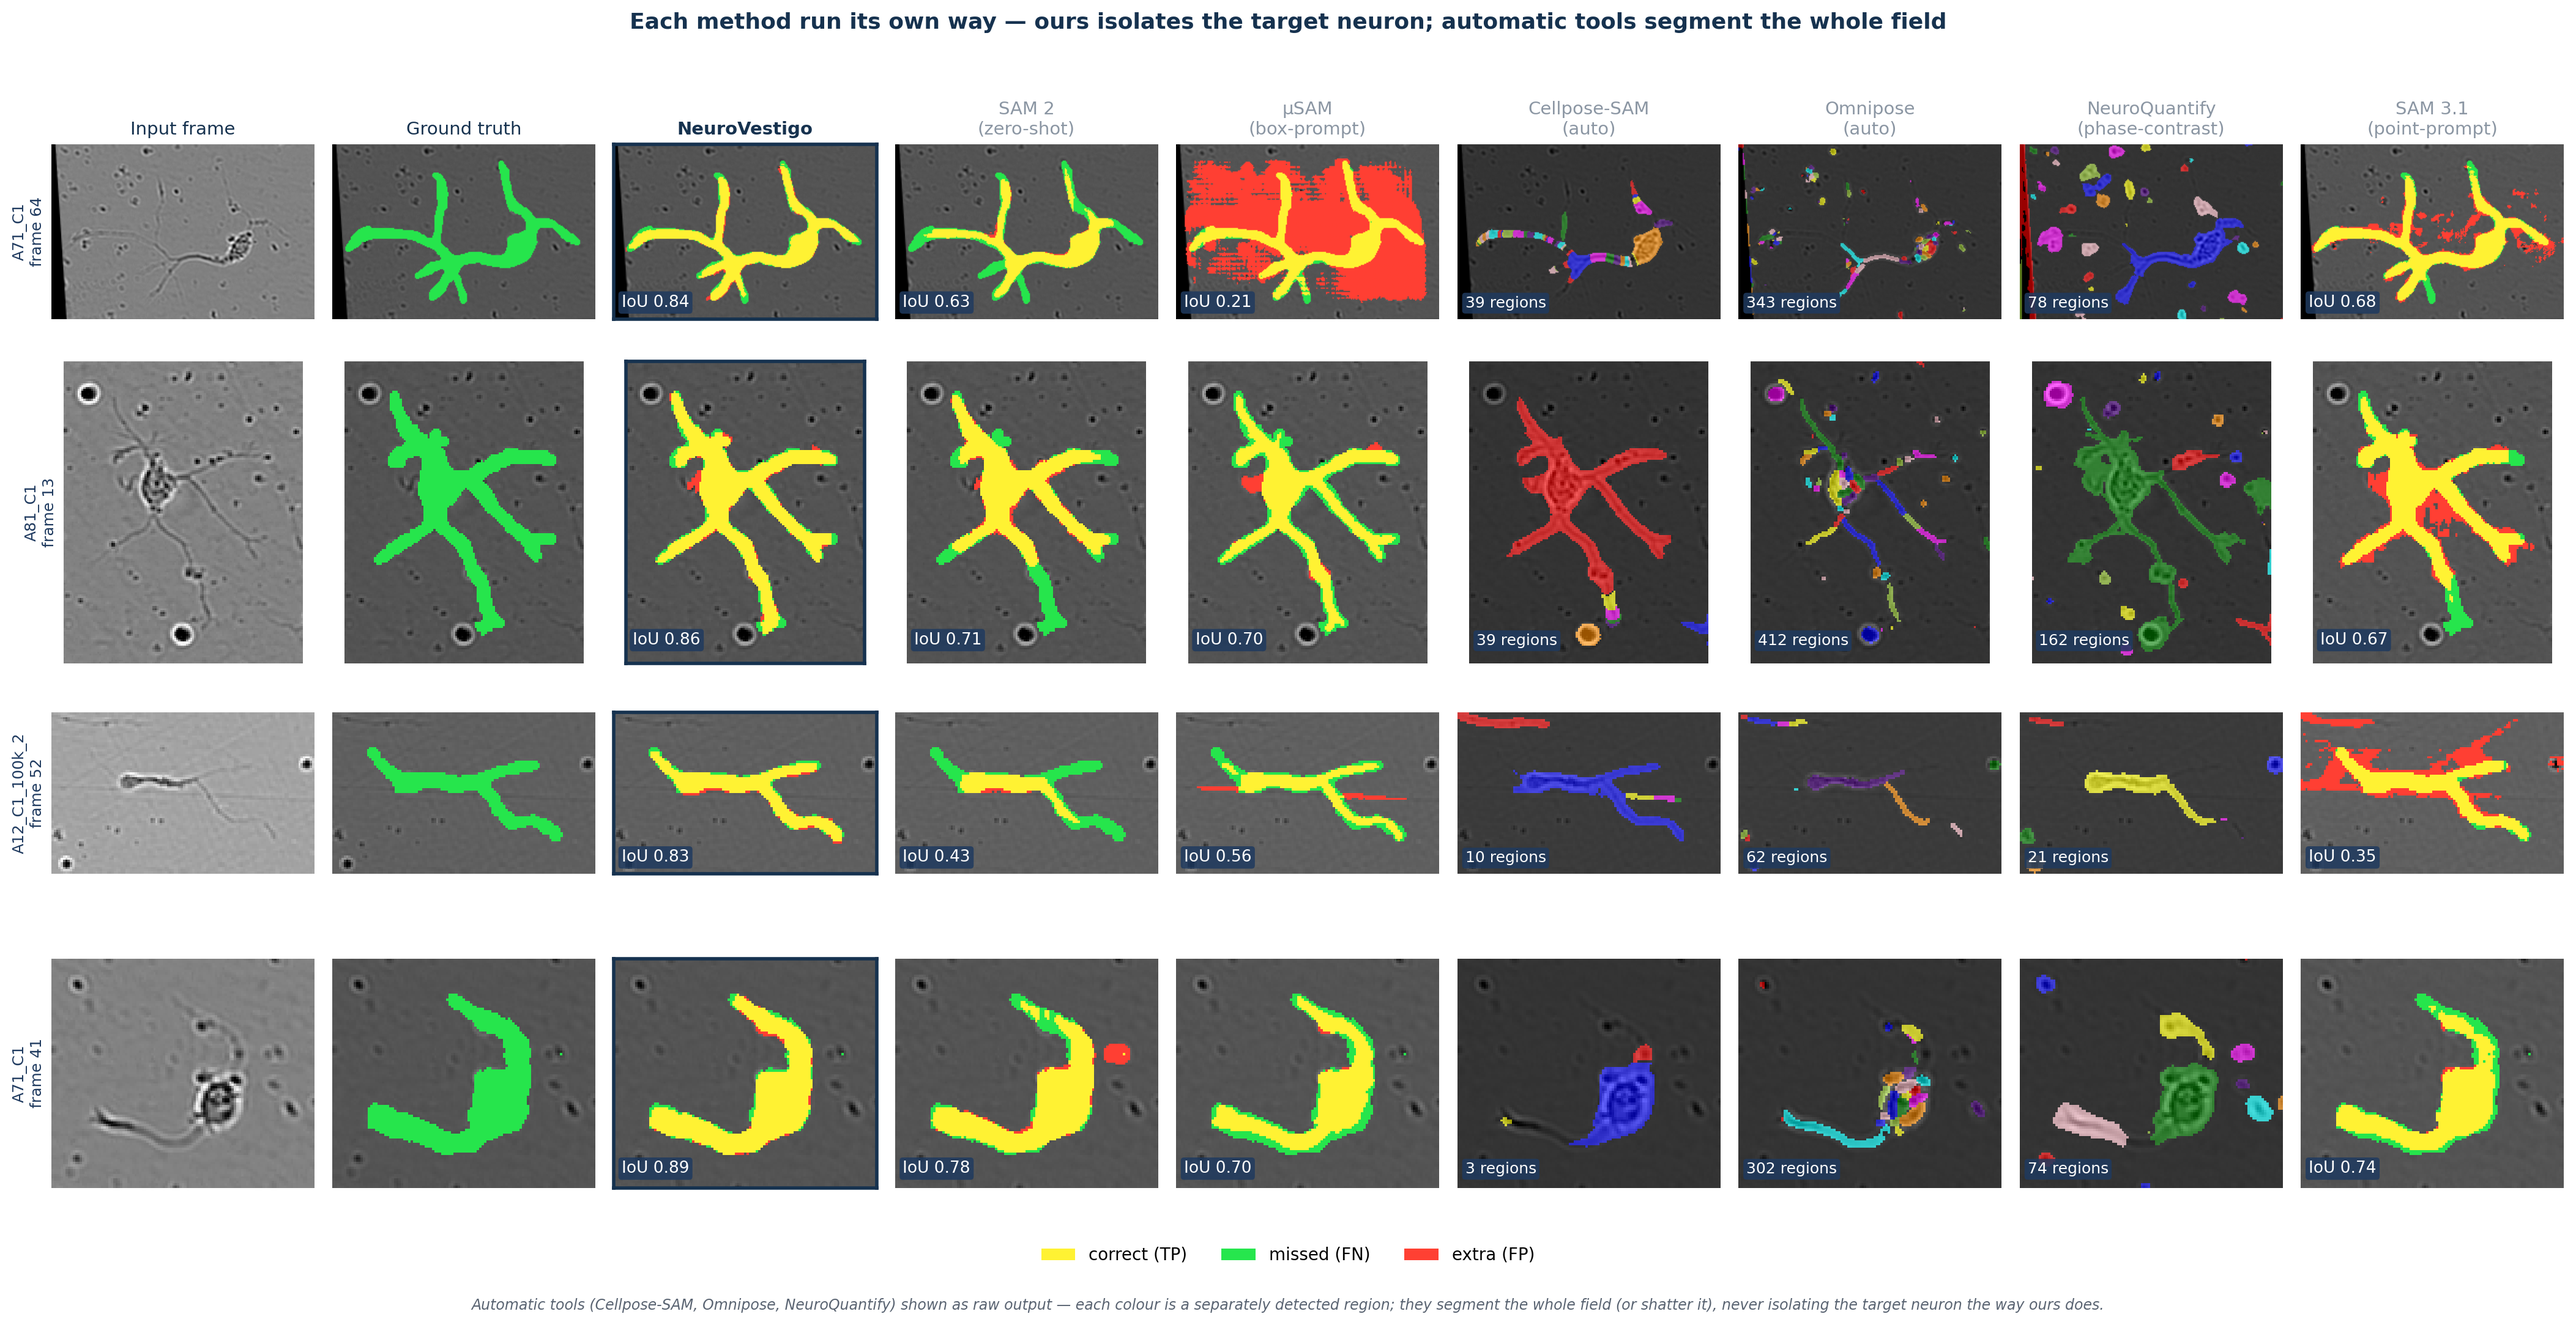
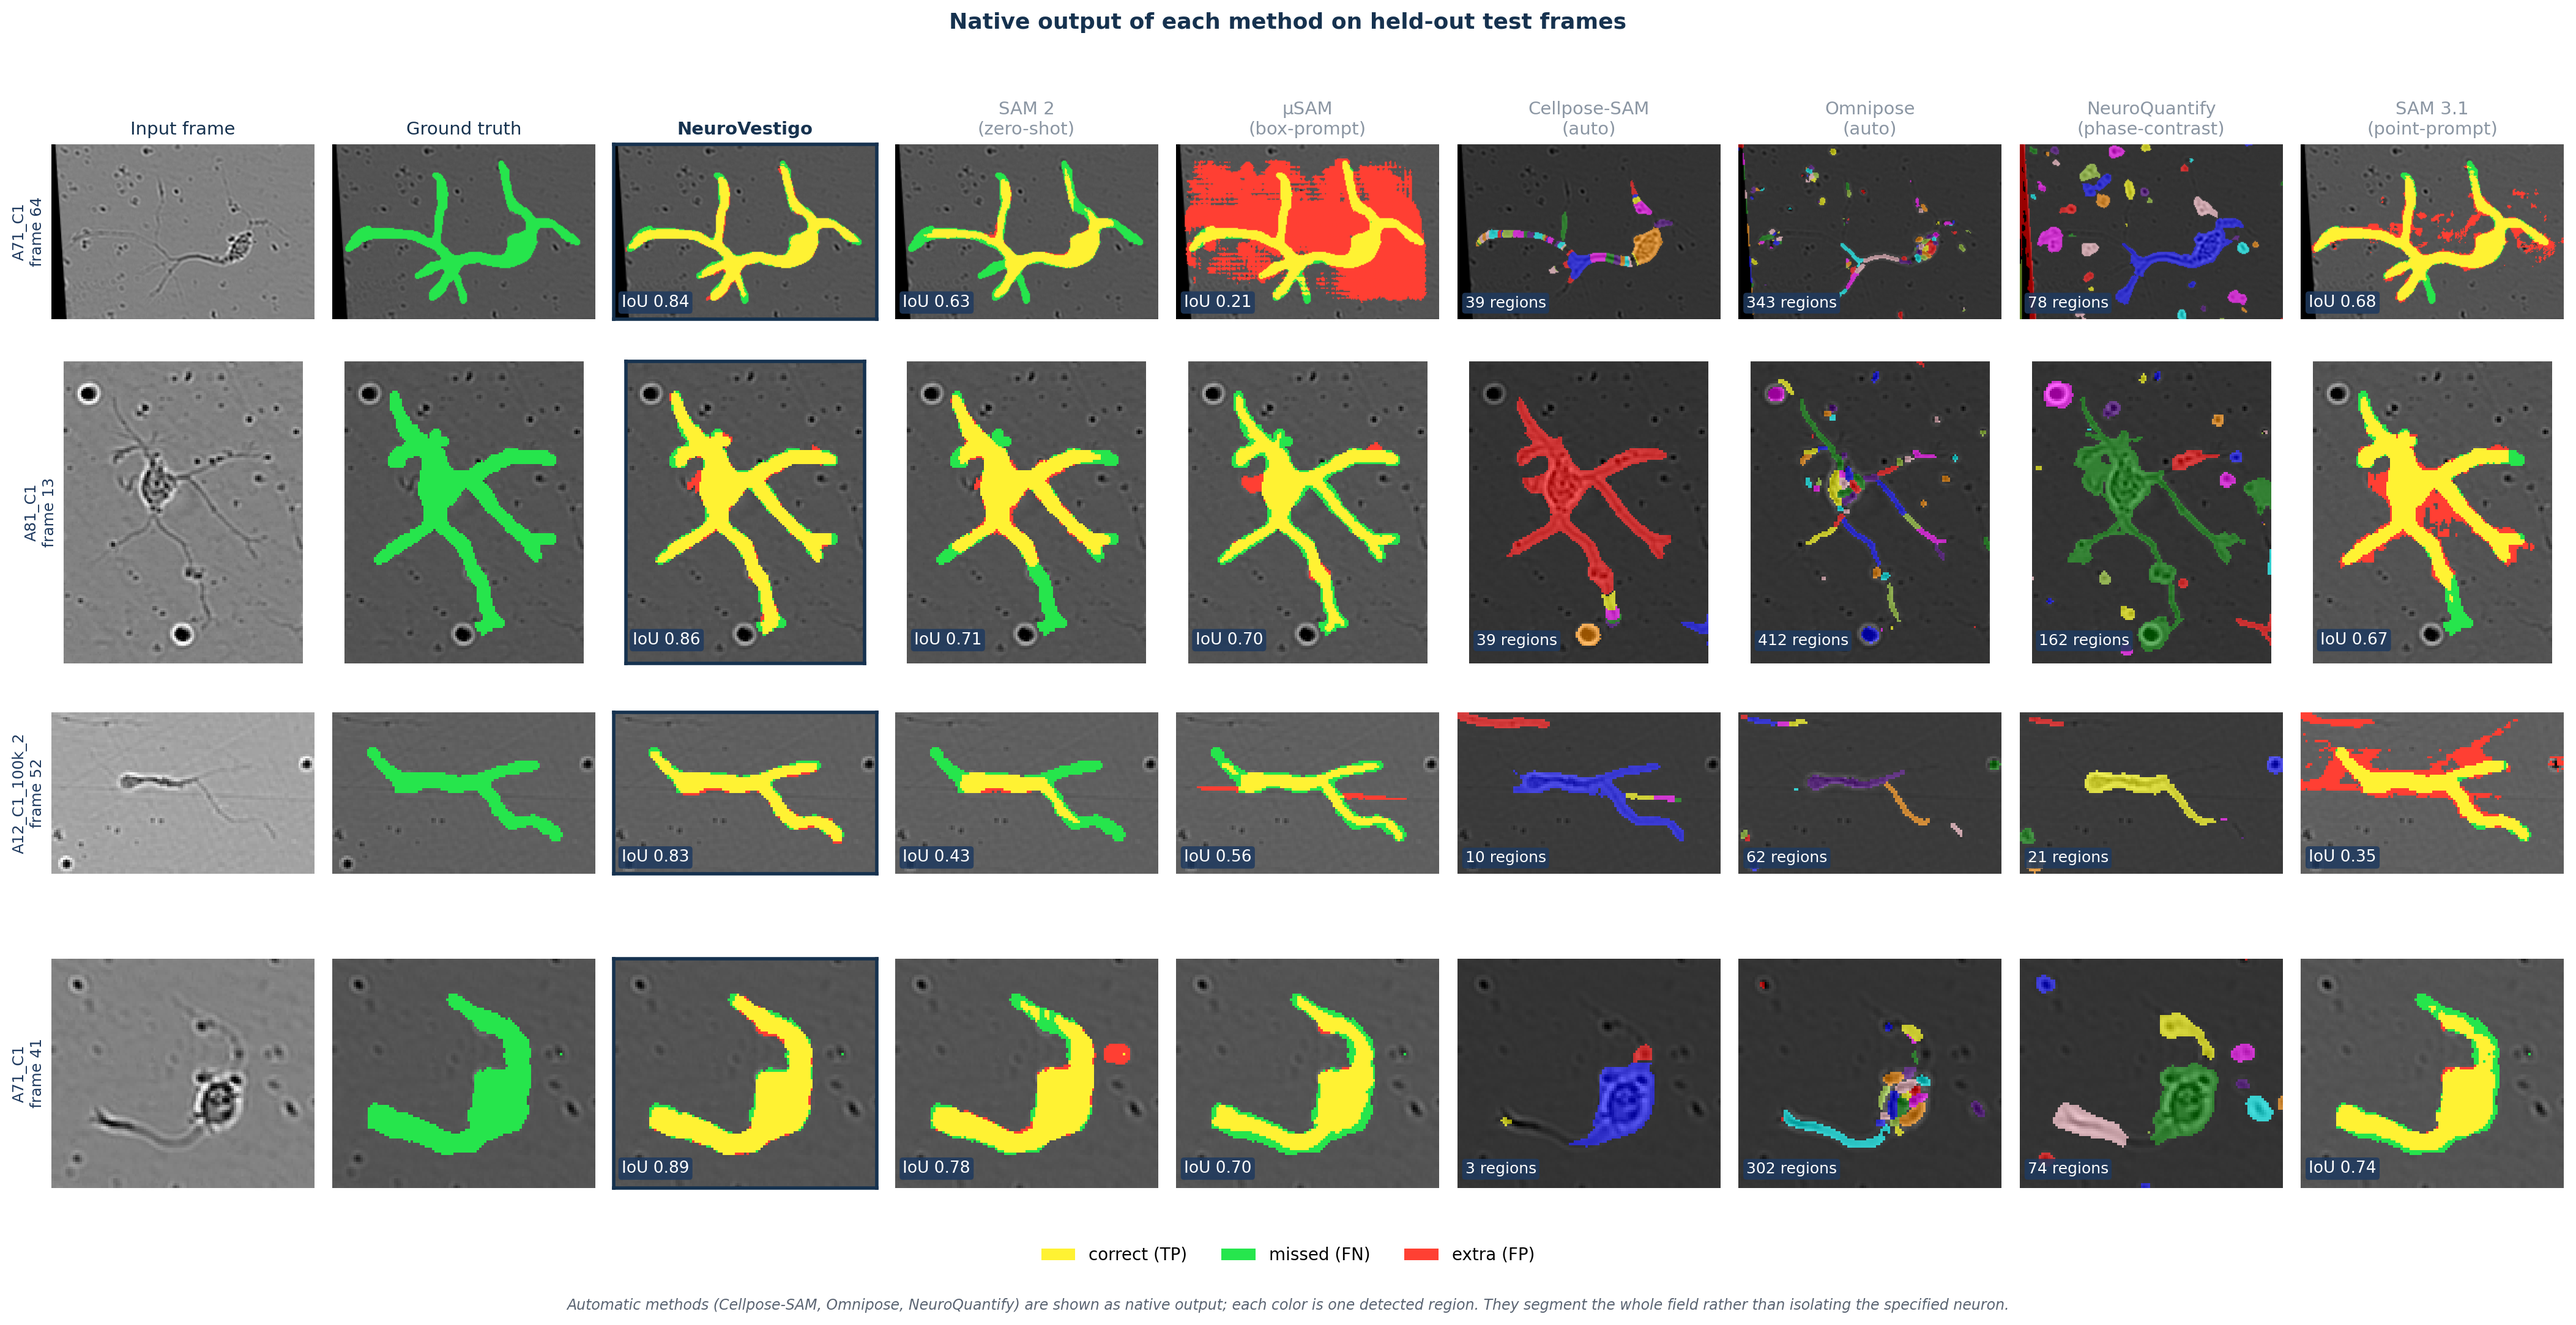
Neutral title and footer on the single-frame comparison
Both suptitle variants were promotional and still said 'ours' -- I missed
them when renaming, because they are prose strings rather than model labels:
  raw    'Each method run its own way - ours isolates the target neuron;
          automatic tools segment the whole field'
  target 'Every method scored the same way on the same frames - green is the
          branch structure each one loses'
Now 'Native output of each method on held-out test frames' and 'All methods
reduced to the target neuron and scored identically'. The paper's figure is
the raw variant; the target string is what a --style target run produces.

Footer likewise: dropped '(or shatter it)' and 'the way ours does', and
fixed 'colour' -> 'color', which had survived the American spelling pass
because it lives in a Python string.

Changed region(s): [[0.2178, 0.9585, 0.7779, 0.9894], [0.2489, 0.0, 0.7468, 0.0309]]

diff --git a/benchmark/single_frame_compare.py b/benchmark/single_frame_compare.py
@@ -149,17 +149,16 @@ def main():
                         Patch(fc=[1, .25, .2], label="extra (FP)")],
                loc="lower center", ncol=3, frameon=False, fontsize=10, bbox_to_anchor=(0.5, -0.03))
     if args.style == "raw":
-        fig.text(0.5, -0.055, "Automatic tools (Cellpose-SAM, Omnipose, NeuroQuantify) shown as raw "
-             "output — each colour is a separately detected region; they segment the whole field "
-             "(or shatter it), never isolating the target neuron the way ours does.",
+        fig.text(0.5, -0.055, "Automatic methods (Cellpose-SAM, Omnipose, NeuroQuantify) are shown "
+             "as native output; each color is one detected region. They segment the whole field "
+             "rather than isolating the specified neuron.",
              ha="center", fontsize=8.5, color="#5A6472", style="italic")
     # The title has to match the style: in 'raw' the automatic tools show their
     # native whole-field output, in 'target' every method is reduced to the
     # target neuron and scored identically.
-    title = ("Each method run its own way — ours isolates the target neuron; "
-             "automatic tools segment the whole field") if args.style == "raw" else \
-            ("Every method scored the same way on the same frames — "
-             "green is the branch structure each one loses")
+    title = ("Native output of each method on held-out test frames"
+             if args.style == "raw" else
+             "All methods reduced to the target neuron and scored identically")
     fig.suptitle(title, fontsize=13, color="#16324F", y=1.006, weight="bold")
     fig.tight_layout()
     os.makedirs(FIGDIR, exist_ok=True)
